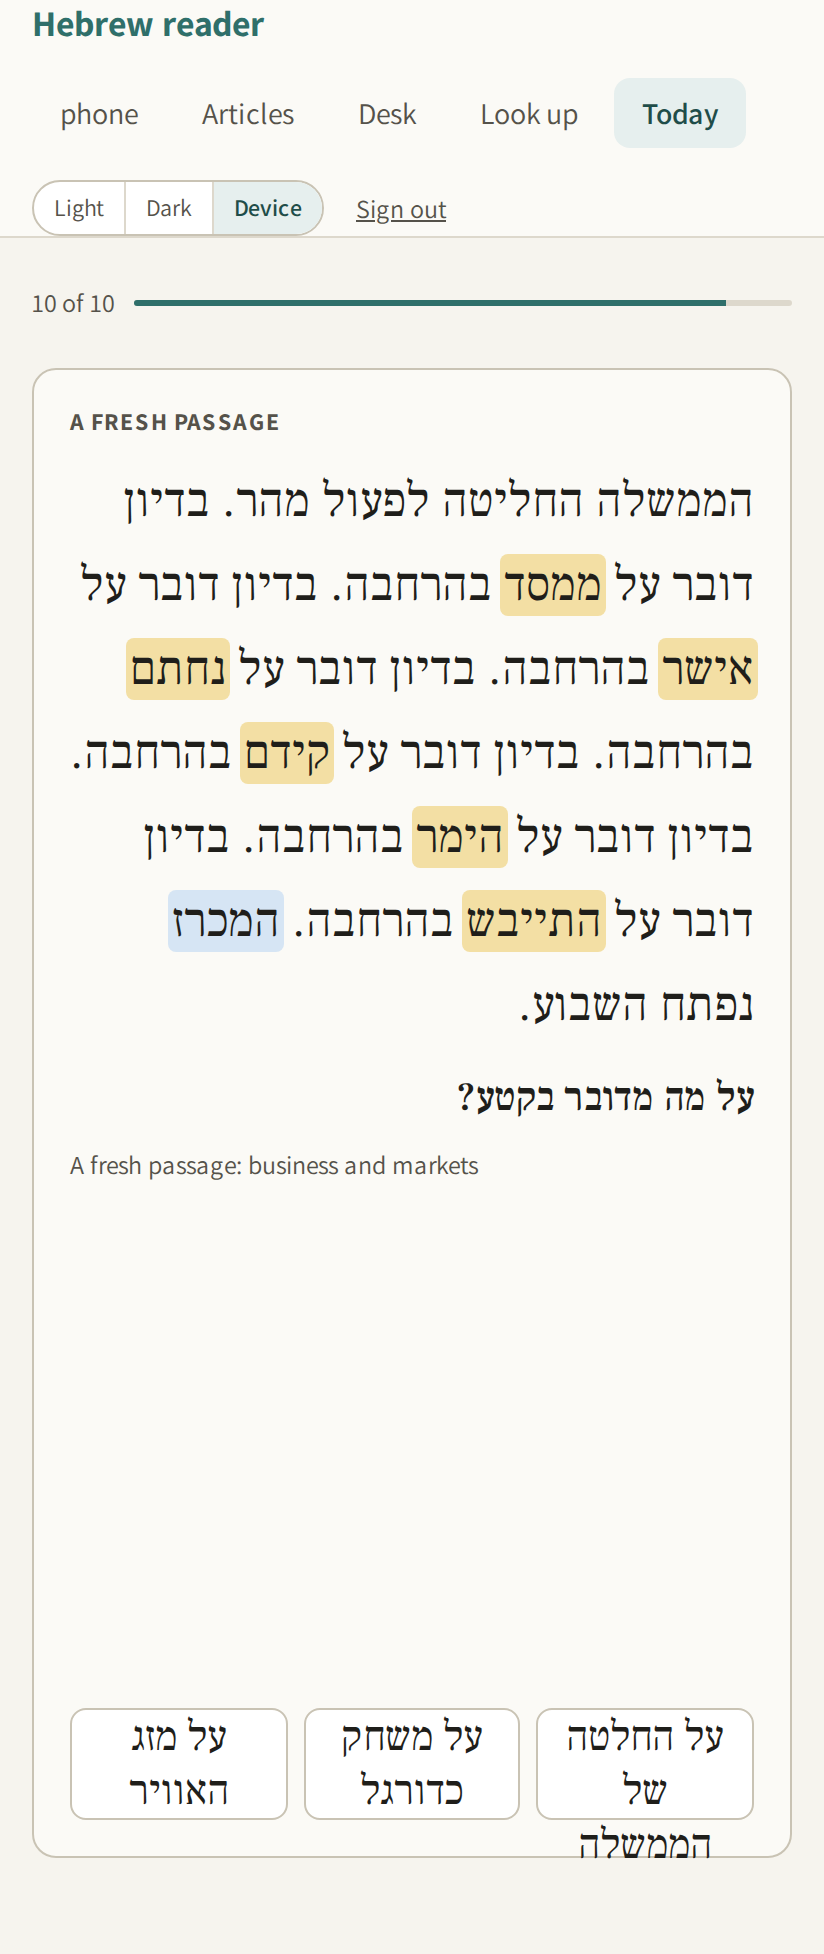
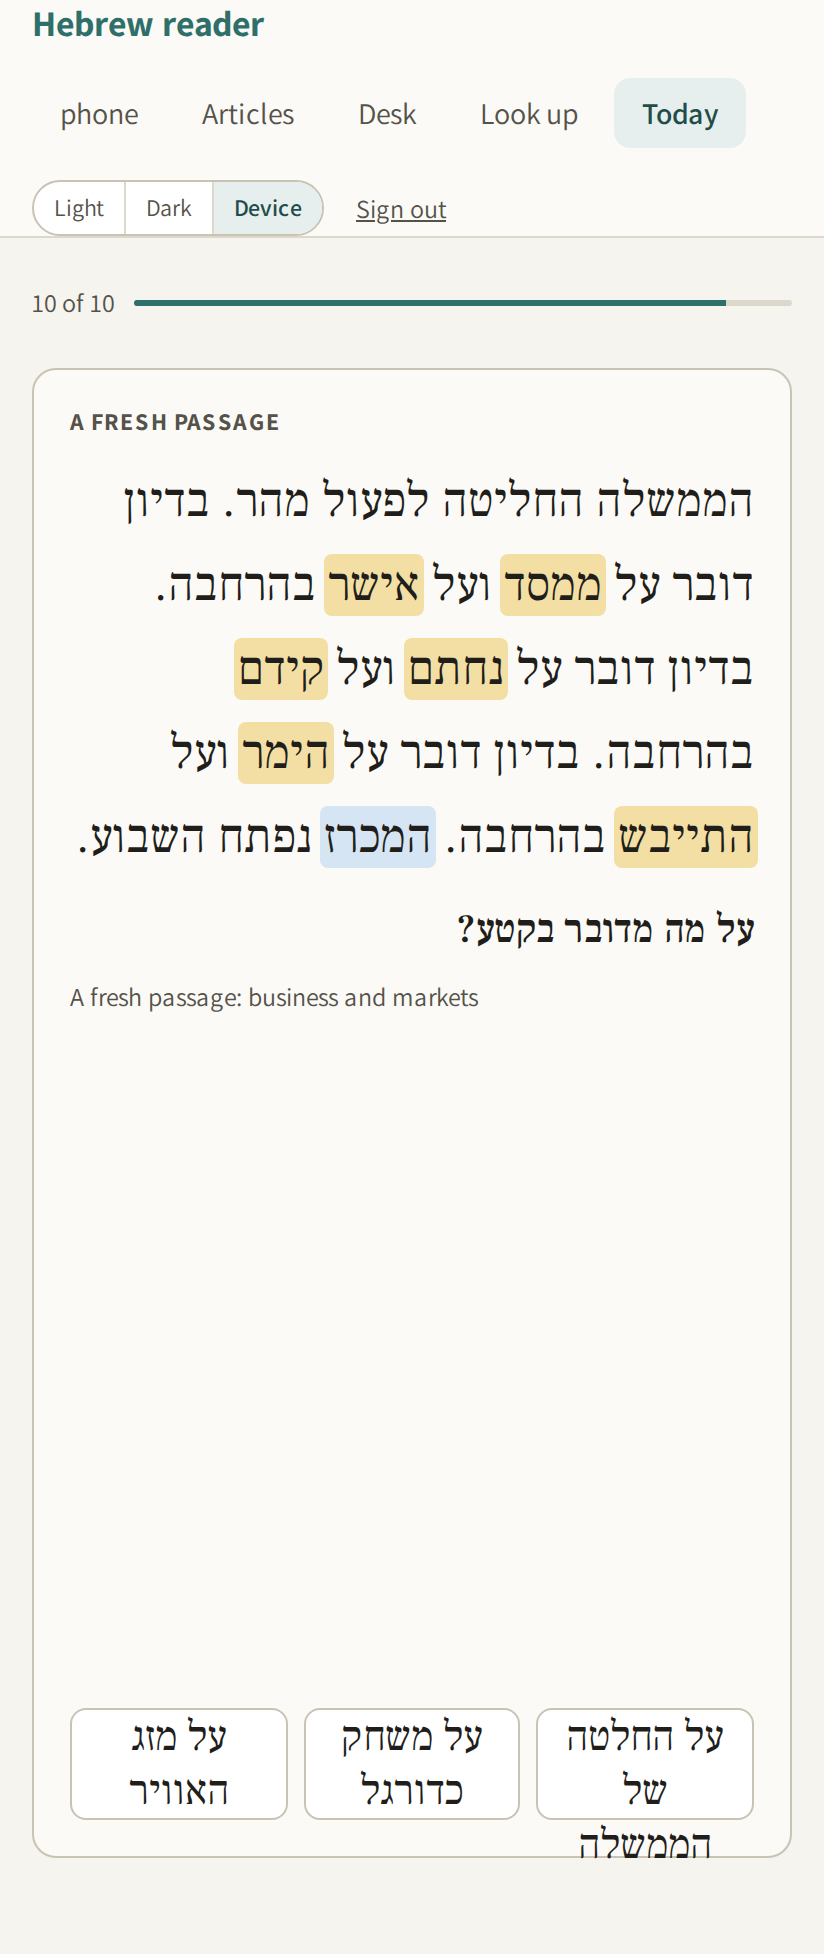
Result-check gaps: spelling items carry a sentence; preposition without a read sentence gets a made-up one; passages kept only at three to five sentences

diff --git a/lib/today.js b/lib/today.js
@@ -111,20 +111,27 @@ const DOMAIN = 'Israeli news or business Hebrew: energy and electricity markets 
 
 const SENTENCE_SYSTEM = `You write one Hebrew sentence for an advanced reader's drill, in the register of ${DOMAIN}.
 The sentence must contain the given word exactly as given, letter for letter, as a word of its own (prefixes included as given), used in its given meaning.
+When a preposition is given, the word is followed directly by it: a one-letter preposition written as "ל-" is the first letter of the next word, any other is the next word itself.
 Answer with ONE JSON object and nothing else: {"sentence": "<the Hebrew sentence, no nikud>"}. If you cannot, answer {"error": "<one short reason>"}.`;
 
-async function madeUpSentence(surface, card) {
+// One sentence the model writes around the word (and, for Which preposition,
+// the preposition it governs right after it): { sentence, gapped } with the
+// word blanked, or with the preposition blanked when `preposition` is given.
+// Null when the model does not answer, or its sentence does not hold them.
+async function madeUpSentence(surface, card, { preposition = null } = {}) {
   let raw;
   try {
-    raw = await lookup.chat({ system: SENTENCE_SYSTEM, user: `Sentence request\nWord: ${surface}\nMeaning: ${card.meaning_en || ''}`, maxTokens: 300, what: 'A sentence could not be made' });
+    raw = await lookup.chat({ system: SENTENCE_SYSTEM, user: `Sentence request\nWord: ${surface}\nMeaning: ${card.meaning_en || ''}${preposition ? `\nPreposition: ${preposition}` : ''}`, maxTokens: 300, what: 'A sentence could not be made' });
   } catch (e) {
     console.error(`today: ${e.message}`);
     return null;
   }
   const sentence = raw && typeof raw.sentence === 'string' ? raw.sentence.trim() : '';
-  const found = sentence ? demand.findSurface(sentence, surface) : null;
-  if (!found) console.log(`today: no made-up sentence for ${surface}${raw && raw.error ? ' (' + String(raw.error).trim() + ')' : ' holding it'}`);
-  return found;
+  let out = null;
+  if (sentence && preposition) { const g = gapPreposition(sentence, surface, preposition); out = g ? { sentence, gapped: g } : null; }
+  else if (sentence) { const f = demand.findSurface(sentence, surface); out = f ? { sentence: f.sentence, gapped: f.gapped } : null; }
+  if (!out) console.log(`today: no made-up sentence for ${surface}${preposition ? ' ' + preposition : ''}${raw && raw.error ? ' (' + String(raw.error).trim() + ')' : ' holding it'}`);
+  return out;
 }
 
 const MISSPELL_SYSTEM = `You help an advanced reader of Hebrew drill spelling. Given one Hebrew word and the kind of slip the reader makes, answer with ONE JSON object and nothing else:
@@ -212,21 +219,40 @@ async function formItem(base, spot, card, reads) {
   };
 }
 
-function prepositionItem(base, spot, card, reads) {
+// Which preposition: a sentence Dan read with the governed preposition
+// blanked; else one the model writes with the word and its preposition ("a
+// made-up sentence"); only when the model gives none, the word alone with a
+// blank after it.
+async function prepositionItem(base, spot, card, reads) {
   const prep = prepositionOf(card.governs) || prepositionOf((db.cardForSurface(base.word, spot.id, null) || {}).governs);
   if (!prep) return null;
-  let sentence = null, used = null;
+  let sentence = null, used = null, madeUp = false;
   for (const r of reads) { sentence = gapPreposition(r.sentence, r.surface, prep); if (sentence) { used = r; break; } }
+  if (!sentence) {
+    const made = await madeUpSentence(base.word, card, { preposition: prep });
+    if (made) { sentence = made.gapped; madeUp = true; }
+  }
   const others = order(PREPOSITIONS.filter((p) => p !== prep), spot.id).slice(0, 2);
-  return { ...base, ...(used ? sourceOfRead(used) : {}), kind: 'preposition', sentence: sentence || `${base.word} …`, in_sentence: Boolean(sentence), choices: order([prep, ...others], spot.id + 'choices'), answer: prep };
+  return { ...base, ...(used ? sourceOfRead(used) : {}), kind: 'preposition', sentence: sentence || `${base.word} …`, in_sentence: Boolean(sentence), made_up: madeUp, choices: order([prep, ...others], spot.id + 'choices'), answer: prep };
 }
 
-async function spellingItem(base, spot, card, category) {
-  const word = letters(card.lemma || base.word);
-  if (word.length < 3) return null;
+// Which spelling: the word blanked in a sentence Dan read (else one the model
+// writes, "a made-up sentence"), the word as it stands there and one
+// misspelling of it to choose between. No sentence and none made up: the
+// next exercise.
+async function spellingItem(base, spot, card, category, reads) {
+  const read = reads.find((r) => r.surface === base.word) || reads[0];
+  let surface = read ? read.surface : base.word, gapped = read ? read.gapped : null, madeUp = false;
+  if (!read) {
+    const made = await madeUpSentence(surface, card);
+    if (!made) return null;
+    gapped = made.gapped; madeUp = true;
+  }
+  const word = letters(surface);
+  if (word.length < 3 || word !== surface) return null;
   const m = await misspelling(word, category);
   if (!m) return null;
-  return { ...base, kind: 'spelling', word, meaning_en: card.meaning_en || '', choices: order([word, m.misspelling], spot.id), answer: word, misspelling_by: m.by };
+  return { ...base, ...(read ? sourceOfRead(read) : {}), kind: 'spelling', word, sentence: gapped, made_up: madeUp, meaning_en: card.meaning_en || '', choices: order([word, m.misspelling], spot.id), answer: word, misspelling_by: m.by };
 }
 
 function knowItem(base, spot, card, reads) {
@@ -248,9 +274,9 @@ async function itemFor(spot, group) {
   const base = { group, spot_id: spot.id, card_id: row.id, word: surfaceOf(spot, group, card), lemma: card.lemma || null, status: spot.status, ...sourceOf(spot, group) };
   const cats = spot.categories || [];
   if (cats.includes('conjugation')) { const it = await formItem(base, spot, card, reads); if (it) return it; }
-  if (cats.includes('preposition-government')) { const it = prepositionItem(base, spot, card, reads); if (it) return it; }
+  if (cats.includes('preposition-government')) { const it = await prepositionItem(base, spot, card, reads); if (it) return it; }
   const spell = ['letter-order', 'homophonous-spelling'].find((c) => cats.includes(c));
-  if (spell) { const it = await spellingItem(base, spot, card, spell); if (it) return it; }
+  if (spell) { const it = await spellingItem(base, spot, card, spell, reads); if (it) return it; }
   return knowItem(base, spot, card, reads);
 }
 
@@ -349,7 +375,14 @@ function wordsFound(text, given) {
   return found;
 }
 
-// One passage, or { failed: 'model' | 'words' | 'question', why }.
+// How many sentences a text holds: the stretches between . ! ? (and line
+// breaks) that hold a Hebrew word.
+const SENTENCES = { min: 3, max: 5 };
+function sentenceCount(text) {
+  return String(text || '').split(/[.!?\n]+/).filter((s) => tok.words(s).length > 0).length;
+}
+
+// One passage, or { failed: 'model' | 'length' | 'words' | 'question', why }.
 async function onePassage({ given, subject, question }) {
   const list = given.map((g) => `- ${g.lemma}: ${g.forms.join(', ')}`).join('\n');
   let raw;
@@ -363,6 +396,8 @@ async function onePassage({ given, subject, question }) {
   }
   if (!raw || raw.error || typeof raw.hebrew !== 'string' || !raw.hebrew.trim()) return { failed: 'model', why: raw && raw.error ? String(raw.error) : 'no passage in the answer' };
   const text = bare(raw.hebrew).trim();
+  const n = sentenceCount(text);
+  if (n < SENTENCES.min || n > SENTENCES.max) return { failed: 'length', why: `it has ${n} sentences (${SENTENCES.min} to ${SENTENCES.max} kept)` };
   const found = wordsFound(text, given);
   if (found.length < MIN_FOUND) return { failed: 'words', why: `${found.length} of the ${given.length} words given are in it (${MIN_FOUND} needed)` };
   const newWords = (Array.isArray(raw.new_words) ? raw.new_words : [])
@@ -405,7 +440,8 @@ async function makePassages(prefer = []) {
   }
   let note = null;
   if (passages.length < PASSAGES) {
-    const why = failed.includes('model') ? 'the model did not answer' : 'the passages written did not use your words';
+    const WHY = { model: 'the model did not answer', length: 'the passages written were not three to five sentences', words: 'the passages written did not use your words', question: 'the passages written came without a usable question' };
+    const why = WHY[['model', 'length', 'words', 'question'].find((k) => failed.includes(k))];
     note = passages.length ? `One fresh passage today; for the other ${why}.` : `No fresh passages today; ${why}.`;
   }
   return { passages, note };
@@ -646,4 +682,4 @@ async function undo(body) {
   return { undone: { answer_id: last.id, item_index: last.item_index, result: last.result, word: item.word || null }, spot: marked.spot, spine: marked.spine, view: view(set) };
 }
 
-module.exports = { dayOf, addDays, ensureSet, nextBuildAt, startScheduler, current, view, answer, show, undo, judge, LADDER, build, chooseWords, makePassages, onePassage, wordsFound, itemFor, readsOf, misspelling, madeMisspellings, gapPreposition, prepositionOf, PREPOSITIONS, SUBJECTS, MIN_FOUND, TZ, SET_SIZE };
+module.exports = { dayOf, addDays, ensureSet, nextBuildAt, startScheduler, current, view, answer, show, undo, judge, LADDER, build, chooseWords, makePassages, onePassage, wordsFound, sentenceCount, SENTENCES, itemFor, readsOf, misspelling, madeMisspellings, gapPreposition, prepositionOf, PREPOSITIONS, SUBJECTS, MIN_FOUND, TZ, SET_SIZE };

diff --git a/public/today.js b/public/today.js
@@ -123,7 +123,6 @@ function drawItem(it) {
   $('#translation').textContent = it.kind === 'form' ? it.translation_en || '' : it.kind === 'spelling' ? it.meaning_en || '' : '';
   const s = $('#sentence');
   if (it.kind === 'passage') drawPassage(s, it, it.question.type === 'form' ? it.question.text : it.text);
-  else if (it.kind === 'spelling') { s.innerHTML = ''; }
   else if (it.kind === 'know') {
     s.innerHTML = '';
     const sentence = it.sentence || it.word;
@@ -145,6 +144,7 @@ function drawItem(it) {
     bits.forEach((b, i) => { if (i) hint.append(document.createTextNode(' · ')); for (const x of b) hint.append(typeof x === 'string' ? document.createTextNode(x) : x); });
   }
   if (it.kind === 'preposition' && !it.in_sentence) hint.textContent = 'the preposition this word takes';
+  if ((it.kind === 'preposition' || it.kind === 'spelling') && it.made_up) hint.textContent = 'a made-up sentence';
   mixed($('#source'), it.source || '');
   $('#english').textContent = it.english || '';
   if (it.answered) return drawAnswered(it);
@@ -226,7 +226,7 @@ async function send(body, button) {
     const data = await api('POST', '/today/answer', { set_id: view.set.id, item_index: it.index, ...body });
     view = data.view;
     hideAll();
-    if (it.kind === 'form' || (it.kind === 'passage' && it.question.type === 'form')) setGap(data.result === 'right' ? 'right' : 'shown', it.kind === 'passage' ? it.question.answer : it.answer);
+    if (it.kind === 'form' || it.kind === 'preposition' || it.kind === 'spelling' || (it.kind === 'passage' && it.question.type === 'form')) setGap(data.result === 'right' ? 'right' : 'shown', it.kind === 'passage' ? it.question.answer : it.kind === 'preposition' ? it.answer.replace(/-$/, '') : it.answer);
     for (const b of document.querySelectorAll('#choices .choice')) {
       const right = b.textContent === (it.kind === 'passage' ? it.question.answer : it.answer);
       b.classList.toggle('right', right);

diff --git a/docs/CHECKS.md b/docs/CHECKS.md
@@ -10,8 +10,8 @@ screenshot scripts, unchanged.
 | Check | What it proves |
 | - | - |
 | syntax | Every `.js`, `.mjs` and `.cjs` file outside `node_modules` parses (`node --check`, file by file). |
-| tests | `npm test` = `npm run smoke`: `scripts/smoke.mjs` (255 checks), `scripts/grow-smoke.mjs` (66), `scripts/paper-smoke.mjs` (81), `scripts/hunt-smoke.mjs` (39, "Find an article" against local news pages) and `scripts/lookup-smoke.mjs` (64, the Look up page and the references shown inside the reader, its redirect gate included, against local reference pages; about 25 s, because the 20-second fetch limit is timed for real) and `scripts/today-smoke.mjs` (82, the Today page's daily set: choosing the words, each word's exercise and the source it names, fresh passages, when a set is made, the 05:00 Tokyo scheduler, answers, Show and Undo, an older page's Undo refused; about 3 s; its day-dependent rules call `lib/today.js` in the check's own process with a seeded clock), each against a real server with local stand-ins for OpenRouter, the spine and the reference sites (`scripts/mock-openrouter.mjs`, `scripts/mock-spine.mjs`, `scripts/mock-references.mjs`). 587 in all (16 Oct 2026). |
-| screenshots | `npm run screenshots`: `scripts/screenshots.mjs` (229), `desk-pages.mjs` (47), `grow-pages.mjs` (66), `paper-pages.mjs` (53), `hunt-pages.mjs` (23), `lookup-pages.mjs` (44), `today-pages.mjs` (55) — every screen at phone and computer size, signing in through the form; 517 in all (16 Oct 2026). Needs Playwright's browser. The Checks run keeps the hunt's screenshots as the artifact `hunt-screenshots`. |
+| tests | `npm test` = `npm run smoke`: `scripts/smoke.mjs` (255 checks), `scripts/grow-smoke.mjs` (66), `scripts/paper-smoke.mjs` (81), `scripts/hunt-smoke.mjs` (39, "Find an article" against local news pages) and `scripts/lookup-smoke.mjs` (64, the Look up page and the references shown inside the reader, its redirect gate included, against local reference pages; about 25 s, because the 20-second fetch limit is timed for real) and `scripts/today-smoke.mjs` (89, the Today page's daily set: choosing the words, each word's exercise and the source it names, its read or made-up sentence, fresh passages and their length, when a set is made, the 05:00 Tokyo scheduler, answers, Show and Undo, an older page's Undo refused; about 3 s; its day-dependent rules call `lib/today.js` in the check's own process with a seeded clock), each against a real server with local stand-ins for OpenRouter, the spine and the reference sites (`scripts/mock-openrouter.mjs`, `scripts/mock-spine.mjs`, `scripts/mock-references.mjs`). 594 in all (16 Oct 2026). |
+| screenshots | `npm run screenshots`: `scripts/screenshots.mjs` (229), `desk-pages.mjs` (47), `grow-pages.mjs` (66), `paper-pages.mjs` (53), `hunt-pages.mjs` (23), `lookup-pages.mjs` (44), `today-pages.mjs` (57) — every screen at phone and computer size, signing in through the form; 519 in all (16 Oct 2026). Needs Playwright's browser. The Checks run keeps the hunt's screenshots as the artifact `hunt-screenshots`. |
 | (by hand) the frame test | `node scripts/reference-frames.mjs`: asks the seven live reference sites whether they can be framed. Not in `npm run check` (it reaches the live sites); its last result is in `docs/REFERENCES.md`. |
 
 The fast tests, `npm run test:fast`, are grow, paper and hunt only:

diff --git a/PLAN.md b/PLAN.md
@@ -1297,3 +1297,20 @@ day's words with their results. Nothing due: "Nothing is due today".
   table count and `lookup-pages.mjs`'s navigation check now allow the Today
   tables and link. Totals: 587 server checks (from 505), 517 page checks
   (from 462); `npm run check` passes.
+- **Fixes after the result check (16 Oct 2026, after PR #14's merge;
+  branch `claude/hebrew-today-one-fixes`).** Three gaps against steps 3 and
+  4, closed. Which spelling now always has a sentence: the word blanked in a
+  sentence Dan read, else one the model writes ("a made-up sentence"); the
+  choices are the word as it stands there and its misspelling, and with no
+  sentence at all the word gets Do you know it instead. Which preposition
+  with no read sentence holding the preposition asks the model for one
+  sentence with the word and its preposition right after it ("a made-up
+  sentence", the preposition blanked); the word alone with a blank after it
+  is left only for when the model gives no usable sentence. A passage is
+  kept only with three to five sentences (counted between . ! ? and line
+  breaks); the stand-in now writes five, and one of eight is refused with
+  "No fresh passages today; the passages written were not three to five
+  sentences." On the page the gap fills with the right answer after a
+  preposition or a spelling too. Checks: `today-smoke.mjs` 89 (each
+  preposition path, the spelling fallback, the length rule),
+  `today-pages.mjs` 57; totals 594 server checks and 519 page checks.
